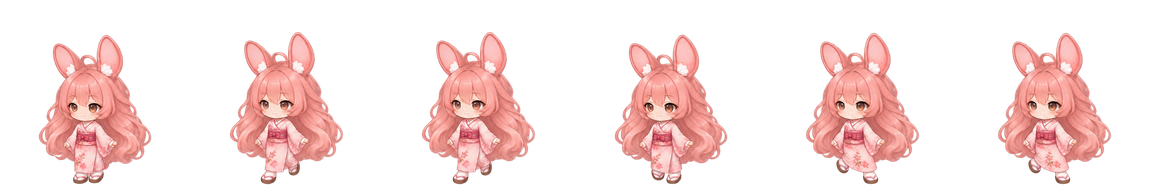
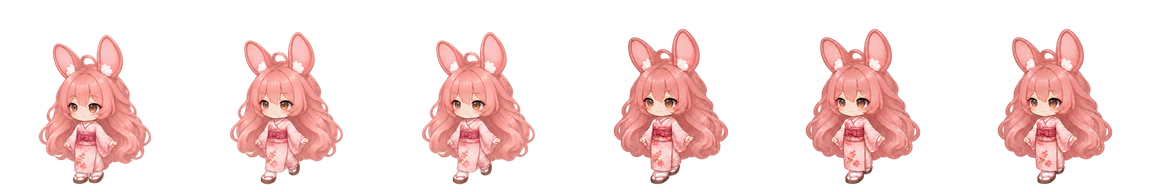
Last Sync: 2026-11-19 19:18 (Mobile)

Changed region(s): [[0.6875, 0.1562, 0.8125, 0.9688], [0.5312, 0.1562, 0.6562, 0.9688], [0.8438, 0.1562, 0.9688, 0.9688]]

diff --git a/index.html b/index.html
@@ -7,41 +7,41 @@
 
   <!-- One build id for every first-party browser asset. Bump this value as a
        unit on every deployed code/style change so a phone cannot mix builds. -->
-  <link rel="stylesheet" href="assets/cherrift_shell.css?v=1119-kimono-whole2" />
-  <link rel="stylesheet" href="assets/cherrift_app.css?v=1119-kimono-whole2" />
-  <link rel="stylesheet" href="assets/cherrift_prebeta.css?v=1119-kimono-whole2" />
-  <link rel="stylesheet" href="assets/cherrift_prebeta_event.css?v=1119-kimono-whole2" />
-  <link rel="preload" as="image" href="assets/ui/loading/sakura-path/landscape.webp?v=1119-kimono-whole2" media="(min-width:821px) and (min-height:601px), (min-width:821px) and (pointer:fine)" />
-  <link rel="preload" as="image" href="assets/loading_mobile_1080x1920.png?v=1119-kimono-whole2" media="(orientation:portrait)" />
-  <link rel="preload" as="image" href="assets/ui/cherrift_logo.png?v=1119-kimono-whole2" />
-  <link rel="stylesheet" href="assets/cherrift_boot.css?v=1119-kimono-whole2" />
-  <link id="cherriftSharedUiCss" rel="stylesheet" href="assets/cherrift_ui.css?v=1119-kimono-whole2" />
-  <link id="cherriftElementalCss" rel="stylesheet" href="assets/cherrift_elemental.css?v=1119-kimono-whole2" />
-  <link id="cherriftSkillBuilderCss" rel="stylesheet" href="assets/cherrift_skill_builder.css?v=1119-kimono-whole2" />
-  <link id="cherriftRuntimeCss" rel="stylesheet" href="assets/cherrift_runtime.css?v=1119-kimono-whole2" />
-  <link rel="stylesheet" href="assets/cherrift_presentation.css?v=1119-kimono-whole2" />
-  <link rel="stylesheet" href="assets/cherrift_desktop_menu.css?v=1119-kimono-whole2" />
-  <link rel="stylesheet" href="assets/cherrift_desktop_skins.css?v=1119-kimono-whole2" />
-  <script src="src/cherrift_boot.js?v=1119-kimono-whole2" defer></script>
+  <link rel="stylesheet" href="assets/cherrift_shell.css?v=1119-kimono-whole4" />
+  <link rel="stylesheet" href="assets/cherrift_app.css?v=1119-kimono-whole4" />
+  <link rel="stylesheet" href="assets/cherrift_prebeta.css?v=1119-kimono-whole4" />
+  <link rel="stylesheet" href="assets/cherrift_prebeta_event.css?v=1119-kimono-whole4" />
+  <link rel="preload" as="image" href="assets/ui/loading/sakura-path/landscape.webp?v=1119-kimono-whole4" media="(min-width:821px) and (min-height:601px), (min-width:821px) and (pointer:fine)" />
+  <link rel="preload" as="image" href="assets/loading_mobile_1080x1920.png?v=1119-kimono-whole4" media="(orientation:portrait)" />
+  <link rel="preload" as="image" href="assets/ui/cherrift_logo.png?v=1119-kimono-whole4" />
+  <link rel="stylesheet" href="assets/cherrift_boot.css?v=1119-kimono-whole4" />
+  <link id="cherriftSharedUiCss" rel="stylesheet" href="assets/cherrift_ui.css?v=1119-kimono-whole4" />
+  <link id="cherriftElementalCss" rel="stylesheet" href="assets/cherrift_elemental.css?v=1119-kimono-whole4" />
+  <link id="cherriftSkillBuilderCss" rel="stylesheet" href="assets/cherrift_skill_builder.css?v=1119-kimono-whole4" />
+  <link id="cherriftRuntimeCss" rel="stylesheet" href="assets/cherrift_runtime.css?v=1119-kimono-whole4" />
+  <link rel="stylesheet" href="assets/cherrift_presentation.css?v=1119-kimono-whole4" />
+  <link rel="stylesheet" href="assets/cherrift_desktop_menu.css?v=1119-kimono-whole4" />
+  <link rel="stylesheet" href="assets/cherrift_desktop_skins.css?v=1119-kimono-whole4" />
+  <script src="src/cherrift_boot.js?v=1119-kimono-whole4" defer></script>
 
-  <link rel="stylesheet" href="assets/cherrift_desktop_gear.css?v=1119-kimono-whole2" />
-  <link rel="stylesheet" href="assets/cherrift_desktop_gacha.css?v=1119-kimono-whole2" />
-  <link rel="stylesheet" href="assets/cherrift_desktop_upgrade.css?v=1119-kimono-whole2" />
-  <link rel="stylesheet" href="assets/cherrift_desktop_world.css?v=1119-kimono-whole2" />
-  <link rel="stylesheet" href="assets/cherrift_desktop_settings.css?v=1119-kimono-whole2" />
-  <link rel="stylesheet" href="assets/cherrift_desktop_profile.css?v=1119-kimono-whole2" />
-  <link rel="stylesheet" href="assets/cherrift_desktop_mail.css?v=1119-kimono-whole2" />
-  <link rel="stylesheet" href="assets/cherrift_desktop_collection.css?v=1119-kimono-whole2" />
-  <link rel="stylesheet" href="assets/cherrift_desktop_shop.css?v=1119-kimono-whole2" />
-  <link rel="stylesheet" href="assets/cherrift_desktop_missions.css?v=1119-kimono-whole2" />
-  <link rel="stylesheet" href="assets/cherrift_desktop_achievements.css?v=1119-kimono-whole2" />
-  <link rel="stylesheet" href="assets/cherrift_desktop_login.css?v=1119-kimono-whole2" />
-  <link rel="stylesheet" href="assets/cherrift_desktop_social.css?v=1119-kimono-whole2" />
-  <link rel="stylesheet" href="assets/cherrift_desktop_loading.css?v=1119-kimono-whole2" />
-  <link rel="stylesheet" href="assets/cherrift_frame_geometry.css?v=1119-kimono-whole2" />
-  <link rel="stylesheet" href="assets/cherrift_desktop_polish.css?v=1119-kimono-whole2" />
-  <script src="src/cherrift_desktop_loading.js?v=1119-kimono-whole2"></script>
-  <link rel="stylesheet" href="assets/cherrift_event_hub.css?v=1119-kimono-whole2" />
+  <link rel="stylesheet" href="assets/cherrift_desktop_gear.css?v=1119-kimono-whole4" />
+  <link rel="stylesheet" href="assets/cherrift_desktop_gacha.css?v=1119-kimono-whole4" />
+  <link rel="stylesheet" href="assets/cherrift_desktop_upgrade.css?v=1119-kimono-whole4" />
+  <link rel="stylesheet" href="assets/cherrift_desktop_world.css?v=1119-kimono-whole4" />
+  <link rel="stylesheet" href="assets/cherrift_desktop_settings.css?v=1119-kimono-whole4" />
+  <link rel="stylesheet" href="assets/cherrift_desktop_profile.css?v=1119-kimono-whole4" />
+  <link rel="stylesheet" href="assets/cherrift_desktop_mail.css?v=1119-kimono-whole4" />
+  <link rel="stylesheet" href="assets/cherrift_desktop_collection.css?v=1119-kimono-whole4" />
+  <link rel="stylesheet" href="assets/cherrift_desktop_shop.css?v=1119-kimono-whole4" />
+  <link rel="stylesheet" href="assets/cherrift_desktop_missions.css?v=1119-kimono-whole4" />
+  <link rel="stylesheet" href="assets/cherrift_desktop_achievements.css?v=1119-kimono-whole4" />
+  <link rel="stylesheet" href="assets/cherrift_desktop_login.css?v=1119-kimono-whole4" />
+  <link rel="stylesheet" href="assets/cherrift_desktop_social.css?v=1119-kimono-whole4" />
+  <link rel="stylesheet" href="assets/cherrift_desktop_loading.css?v=1119-kimono-whole4" />
+  <link rel="stylesheet" href="assets/cherrift_frame_geometry.css?v=1119-kimono-whole4" />
+  <link rel="stylesheet" href="assets/cherrift_desktop_polish.css?v=1119-kimono-whole4" />
+  <script src="src/cherrift_desktop_loading.js?v=1119-kimono-whole4"></script>
+  <link rel="stylesheet" href="assets/cherrift_event_hub.css?v=1119-kimono-whole4" />
 </head>
 <body class="v060-booting">
   <section id="bootV060" class="boot-v060" data-boot-phase="loading" aria-live="polite" aria-label="CHERRIFT loading">
@@ -496,80 +496,80 @@
 
   <!-- Deterministic runtime order. Feature modules own their own screens. -->
   <script src="vendor/supabase-js-2.110.7.js?v=2.110.7"></script>
-  <script src="src/cherrift_network_guard.js?v=1119-kimono-whole2"></script>
-  <script src="src/supabase_config.js?v=1119-kimono-whole2"></script>
-  <script src="src/config.js?v=1119-kimono-whole2"></script>
-  <script src="src/cherrift_world1.js?v=1119-kimono-whole2"></script>
-  <script src="src/cherrift_world2.js?v=1119-kimono-whole2"></script>
-  <script src="src/cherrift_rework_maps.js?v=1119-kimono-whole2"></script>
-  <script src="src/cherrift_world1_assets.js?v=1119-kimono-whole2"></script>
-  <script src="src/cherrift_balance.js?v=1119-kimono-whole2"></script>
-  <script src="src/cherrift_menu_audio.js?v=1119-kimono-whole2"></script>
-  <script src="src/cherrift_online.js?v=1119-kimono-whole2"></script>
-  <script src="src/cherrift_app.js?v=1119-kimono-whole2"></script>
-  <script src="src/cherrift_gunner.js?v=1119-kimono-whole2"></script>
-  <script src="src/cherrift_recovery.js?v=1119-kimono-whole2"></script>
-  <script src="src/cherrift_auth.js?v=1119-kimono-whole2"></script>
-  <script src="src/cherrift_startup_trace.js?v=1119-kimono-whole2"></script>
-  <script src="src/cherrift_gacha.js?v=1119-kimono-whole2"></script>
-  <script src="src/cherrift_live_services.js?v=1119-kimono-whole2"></script>
-  <script src="src/cherrift_account_mail.js?v=1119-kimono-whole2"></script>
-  <script src="src/cherrift_world_ui.js?v=1119-kimono-whole2"></script>
-  <script src="src/cherrift_runtime.js?v=1119-kimono-whole2"></script>
-  <script src="src/cherrift_prebeta.js?v=1119-kimono-whole2"></script>
-  <script src="src/cherrift_prebeta_event.js?v=1119-kimono-whole2"></script>
-  <script src="src/cherrift_event_hub.js?v=1119-kimono-whole2"></script>
-  <script src="src/cherrift_security_ui.js?v=1119-kimono-whole2"></script>
-  <script src="src/cherrift_skin_ui.js?v=1119-kimono-whole2"></script>
-  <script src="src/cherrift_foliage.js?v=1119-kimono-whole2"></script>
-  <script src="src/cherrift_elemental.js?v=1119-kimono-whole2"></script>
-  <script src="src/cherrift_skill_builder.js?v=1119-kimono-whole2"></script>
-  <script src="src/cherrift_presentation.js?v=1119-kimono-whole2"></script>
-  <script src="src/cherrift_desktop_menu.js?v=1119-kimono-whole2"></script>
-  <script src="src/cherrift_desktop_skins.js?v=1119-kimono-whole2"></script>
-  <script src="src/cherrift_desktop_gear.js?v=1119-kimono-whole2"></script>
-  <script src="src/cherrift_desktop_gacha.js?v=1119-kimono-whole2"></script>
-  <script src="src/cherrift_desktop_upgrade.js?v=1119-kimono-whole2"></script>
-  <script src="src/cherrift_desktop_world.js?v=1119-kimono-whole2"></script>
-  <script src="src/cherrift_desktop_settings.js?v=1119-kimono-whole2"></script>
-  <script src="src/cherrift_desktop_profile.js?v=1119-kimono-whole2"></script>
-  <script src="src/cherrift_desktop_mail.js?v=1119-kimono-whole2"></script>
-  <script src="src/cherrift_desktop_collection.js?v=1119-kimono-whole2"></script>
-  <script src="src/cherrift_desktop_shop.js?v=1119-kimono-whole2"></script>
-  <script src="src/cherrift_desktop_missions.js?v=1119-kimono-whole2"></script>
-  <script src="src/cherrift_desktop_achievements.js?v=1119-kimono-whole2"></script>
-  <script src="src/cherrift_desktop_social.js?v=1119-kimono-whole2"></script>
-  <script src="src/cherrift_desktop_login.js?v=1119-kimono-whole2"></script>
-  <script src="src/cherrift_cherry_geometry.js?v=1119-kimono-whole2"></script>
-  <script src="src/cherrift_animation_flow.js?v=1119-kimono-whole2"></script>
-  <script src="src/cherrift_walk_cycle.js?v=1119-kimono-whole2"></script>
-  <script src="src/cherrift_animation_smoothing.js?v=1119-kimono-whole2"></script>
-  <script src="src/cherrift_cherry_gait.js?v=1119-kimono-whole2"></script>
-  <script src="src/cherrift_cherry_shot_alignment.js?v=1119-kimono-whole2"></script>
-  <script src="src/cherrift_cherry_motion.js?v=1119-kimono-whole2"></script>
-  <script src="src/cherrift_base_cherry.js?v=1119-kimono-whole2"></script>
-  <script src="src/cherrift_base_petal_vfx.js?v=1119-kimono-whole2"></script>
-  <script src="src/cherrift_sport_data.js?v=1119-kimono-whole2"></script>
-  <script src="src/cherrift_sport_cherry.js?v=1119-kimono-whole2"></script>
-  <script src="src/cherrift_sport_vfx.js?v=1119-kimono-whole2"></script>
-  <script src="src/cherrift_school_data.js?v=1119-kimono-whole2"></script>
-  <script src="src/cherrift_school_cherry.js?v=1119-kimono-whole2"></script>
-  <script src="src/cherrift_school_vfx.js?v=1119-kimono-whole2"></script>
-  <script src="src/cherrift_kimono_cherry.js?v=1119-kimono-whole2"></script>
-  <script src="src/cherrift_pajama_data.js?v=1119-kimono-whole2"></script>
-  <script src="src/cherrift_pajama_cherry.js?v=1119-kimono-whole2"></script>
-  <script src="src/cherrift_cake_data.js?v=1119-kimono-whole2"></script>
-  <script src="src/cherrift_cake_cherry.js?v=1119-kimono-whole2"></script>
-  <script src="src/cherrift_common_skill_vfx.js?v=1119-kimono-whole2"></script>
-  <script src="src/cherrift_ninja_chibi.js?v=1119-kimono-whole2"></script>
-  <script src="src/cherrift_ninja_shadow_sakura.js?v=1119-kimono-whole2"></script>
-  <script src="src/cherrift_archer_chibi.js?v=1119-kimono-whole2"></script>
-  <script src="src/cherrift_succubus_gait.js?v=1119-kimono-whole2"></script>
-  <script src="src/cherrift_succubus_chibi.js?v=1119-kimono-whole2"></script>
-  <script src="src/cherrift_succubus_crimson_hunger.js?v=1119-kimono-whole2"></script>
-  <script src="src/cherrift_sakura_dance_gait.js?v=1119-kimono-whole2"></script>
-  <script src="src/cherrift_sakura_dance_chibi.js?v=1119-kimono-whole2"></script>
-  <script src="src/cherrift_lighting.js?v=1119-kimono-whole2"></script>
-  <script src="src/cherrift_environment.js?v=1119-kimono-whole2"></script>
+  <script src="src/cherrift_network_guard.js?v=1119-kimono-whole4"></script>
+  <script src="src/supabase_config.js?v=1119-kimono-whole4"></script>
+  <script src="src/config.js?v=1119-kimono-whole4"></script>
+  <script src="src/cherrift_world1.js?v=1119-kimono-whole4"></script>
+  <script src="src/cherrift_world2.js?v=1119-kimono-whole4"></script>
+  <script src="src/cherrift_rework_maps.js?v=1119-kimono-whole4"></script>
+  <script src="src/cherrift_world1_assets.js?v=1119-kimono-whole4"></script>
+  <script src="src/cherrift_balance.js?v=1119-kimono-whole4"></script>
+  <script src="src/cherrift_menu_audio.js?v=1119-kimono-whole4"></script>
+  <script src="src/cherrift_online.js?v=1119-kimono-whole4"></script>
+  <script src="src/cherrift_app.js?v=1119-kimono-whole4"></script>
+  <script src="src/cherrift_gunner.js?v=1119-kimono-whole4"></script>
+  <script src="src/cherrift_recovery.js?v=1119-kimono-whole4"></script>
+  <script src="src/cherrift_auth.js?v=1119-kimono-whole4"></script>
+  <script src="src/cherrift_startup_trace.js?v=1119-kimono-whole4"></script>
+  <script src="src/cherrift_gacha.js?v=1119-kimono-whole4"></script>
+  <script src="src/cherrift_live_services.js?v=1119-kimono-whole4"></script>
+  <script src="src/cherrift_account_mail.js?v=1119-kimono-whole4"></script>
+  <script src="src/cherrift_world_ui.js?v=1119-kimono-whole4"></script>
+  <script src="src/cherrift_runtime.js?v=1119-kimono-whole4"></script>
+  <script src="src/cherrift_prebeta.js?v=1119-kimono-whole4"></script>
+  <script src="src/cherrift_prebeta_event.js?v=1119-kimono-whole4"></script>
+  <script src="src/cherrift_event_hub.js?v=1119-kimono-whole4"></script>
+  <script src="src/cherrift_security_ui.js?v=1119-kimono-whole4"></script>
+  <script src="src/cherrift_skin_ui.js?v=1119-kimono-whole4"></script>
+  <script src="src/cherrift_foliage.js?v=1119-kimono-whole4"></script>
+  <script src="src/cherrift_elemental.js?v=1119-kimono-whole4"></script>
+  <script src="src/cherrift_skill_builder.js?v=1119-kimono-whole4"></script>
+  <script src="src/cherrift_presentation.js?v=1119-kimono-whole4"></script>
+  <script src="src/cherrift_desktop_menu.js?v=1119-kimono-whole4"></script>
+  <script src="src/cherrift_desktop_skins.js?v=1119-kimono-whole4"></script>
+  <script src="src/cherrift_desktop_gear.js?v=1119-kimono-whole4"></script>
+  <script src="src/cherrift_desktop_gacha.js?v=1119-kimono-whole4"></script>
+  <script src="src/cherrift_desktop_upgrade.js?v=1119-kimono-whole4"></script>
+  <script src="src/cherrift_desktop_world.js?v=1119-kimono-whole4"></script>
+  <script src="src/cherrift_desktop_settings.js?v=1119-kimono-whole4"></script>
+  <script src="src/cherrift_desktop_profile.js?v=1119-kimono-whole4"></script>
+  <script src="src/cherrift_desktop_mail.js?v=1119-kimono-whole4"></script>
+  <script src="src/cherrift_desktop_collection.js?v=1119-kimono-whole4"></script>
+  <script src="src/cherrift_desktop_shop.js?v=1119-kimono-whole4"></script>
+  <script src="src/cherrift_desktop_missions.js?v=1119-kimono-whole4"></script>
+  <script src="src/cherrift_desktop_achievements.js?v=1119-kimono-whole4"></script>
+  <script src="src/cherrift_desktop_social.js?v=1119-kimono-whole4"></script>
+  <script src="src/cherrift_desktop_login.js?v=1119-kimono-whole4"></script>
+  <script src="src/cherrift_cherry_geometry.js?v=1119-kimono-whole4"></script>
+  <script src="src/cherrift_animation_flow.js?v=1119-kimono-whole4"></script>
+  <script src="src/cherrift_walk_cycle.js?v=1119-kimono-whole4"></script>
+  <script src="src/cherrift_animation_smoothing.js?v=1119-kimono-whole4"></script>
+  <script src="src/cherrift_cherry_gait.js?v=1119-kimono-whole4"></script>
+  <script src="src/cherrift_cherry_shot_alignment.js?v=1119-kimono-whole4"></script>
+  <script src="src/cherrift_cherry_motion.js?v=1119-kimono-whole4"></script>
+  <script src="src/cherrift_base_cherry.js?v=1119-kimono-whole4"></script>
+  <script src="src/cherrift_base_petal_vfx.js?v=1119-kimono-whole4"></script>
+  <script src="src/cherrift_sport_data.js?v=1119-kimono-whole4"></script>
+  <script src="src/cherrift_sport_cherry.js?v=1119-kimono-whole4"></script>
+  <script src="src/cherrift_sport_vfx.js?v=1119-kimono-whole4"></script>
+  <script src="src/cherrift_school_data.js?v=1119-kimono-whole4"></script>
+  <script src="src/cherrift_school_cherry.js?v=1119-kimono-whole4"></script>
+  <script src="src/cherrift_school_vfx.js?v=1119-kimono-whole4"></script>
+  <script src="src/cherrift_kimono_cherry.js?v=1119-kimono-whole4"></script>
+  <script src="src/cherrift_pajama_data.js?v=1119-kimono-whole4"></script>
+  <script src="src/cherrift_pajama_cherry.js?v=1119-kimono-whole4"></script>
+  <script src="src/cherrift_cake_data.js?v=1119-kimono-whole4"></script>
+  <script src="src/cherrift_cake_cherry.js?v=1119-kimono-whole4"></script>
+  <script src="src/cherrift_common_skill_vfx.js?v=1119-kimono-whole4"></script>
+  <script src="src/cherrift_ninja_chibi.js?v=1119-kimono-whole4"></script>
+  <script src="src/cherrift_ninja_shadow_sakura.js?v=1119-kimono-whole4"></script>
+  <script src="src/cherrift_archer_chibi.js?v=1119-kimono-whole4"></script>
+  <script src="src/cherrift_succubus_gait.js?v=1119-kimono-whole4"></script>
+  <script src="src/cherrift_succubus_chibi.js?v=1119-kimono-whole4"></script>
+  <script src="src/cherrift_succubus_crimson_hunger.js?v=1119-kimono-whole4"></script>
+  <script src="src/cherrift_sakura_dance_gait.js?v=1119-kimono-whole4"></script>
+  <script src="src/cherrift_sakura_dance_chibi.js?v=1119-kimono-whole4"></script>
+  <script src="src/cherrift_lighting.js?v=1119-kimono-whole4"></script>
+  <script src="src/cherrift_environment.js?v=1119-kimono-whole4"></script>
 </body>
 </html>

diff --git a/src/cherrift_kimono_cherry.js b/src/cherrift_kimono_cherry.js
@@ -2,7 +2,7 @@
 (() => {
   'use strict';
   if (!window.CherriftGame || !window.CHERRIFT_CONFIG || window.CHERRIFT_KIMONO_CHERRY) return;
-  const ID='kimono_cherry', BUILD='1119-kimono-whole2';
+  const ID='kimono_cherry', BUILD='1119-kimono-whole4';
   const ROOT='assets/player/cherry_skins/kimono_cherry/sheets192';
   const DIRS=['right','down_right','down','down_left','left','up_left','up','up_right'];
   const FPS={idle:3,idle2:3,walk:8,attack:18,walk_attack:8,skill:16};

diff --git a/tools/export_kimono_whole_walk.py b/tools/export_kimono_whole_walk.py
@@ -28,10 +28,21 @@ def main():
         head_x = np.median([ear(frame)[1] for frame in idle])
         scale = 154 / max(figure.height for figure in figures)
         poses = [pack(figure, scale, head_x) for figure in figures]
+        color_curves = curves(palette(poses), palette(idle))
+        if direction == 'down_right':
+            correction = SOURCES / 'down_right-forward.png'
+            corrected_figures = extract(correction, cols=2)[2:]
+            poses[2:] = [pack(figure, scale, head_x) for figure in corrected_figures]
+            sources.append({
+                'file': correction.relative_to(ROOT).as_posix(),
+                'sha256': hashlib.sha256(correction.read_bytes()).hexdigest(),
+                'size': list(Image.open(correction).size),
+                'sourceCells': [2, 3],
+            })
         strip = Image.new('RGBA', (1152, 192))
         for slot, pose in enumerate(POSE_ORDER):
             strip.paste(poses[pose], (slot * 192, 0))
-        balanced = match_palette(strip, curves(palette(poses), palette(idle)))
+        balanced = match_palette(strip, color_curves)
         balanced.save(sheet('walk', direction), optimize=True)
         mirrored = Image.new('RGBA', balanced.size)
         for slot in range(6):
@@ -48,13 +59,14 @@ def main():
 
     manifest_path = ART / 'manifest.json'
     manifest = json.loads(manifest_path.read_text())
-    manifest['buildId'] = '1119-kimono-whole2'
+    manifest['buildId'] = '1119-kimono-whole4'
     manifest['renderer'] = 'complete-pose-distance-clock'
     manifest['wholeWalkSources'] = sources
     manifest['notes'] = [
         'Walk and Walk Attack use their own complete Kimono strips in eight directions.',
         'Side and diagonal Walk use compact full-figure steps. Left views mirror right views.',
         'Forward-diagonal contacts and passing poses use smaller sandals and share the existing walk cadence.',
+        'The second half of the forward-diagonal cycle uses a narrow forward step under the obi.',
         'Both moving states share the stride clock. Attack facing follows the target until release.',
         'Existing Common Healing and Kimono passive use the existing combat rules.',
     ]
